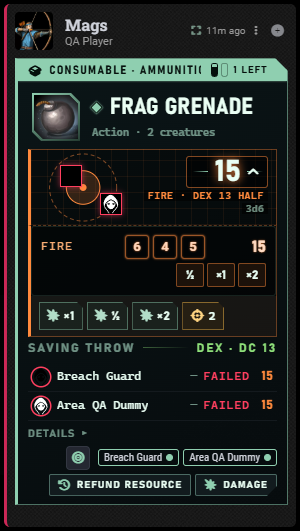
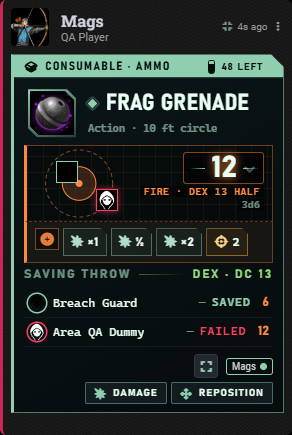
Consumable cards: ammo counts, unclipped foot buttons, Reposition for areas
- A big stack shows one vial and the count instead of a vial per dose;
  Ammunition reads Ammo on the bar, which ellipsizes instead of cutting.
- The button row in a consumable card's foot no longer inherits the
  action strip's corner clip, so the last button keeps its corner.
- Any card whose use puts down an area gets Reposition: D&D5e's placement
  runs again and moves the region that use put down (keeping its
  behaviours and links), or places a new one when it is gone. Players
  move GM-placed regions through the GM.

diff --git a/scripts/hardwipe-area-reposition.js b/scripts/hardwipe-area-reposition.js
@@ -1,0 +1,148 @@
+import { MODULE_ID, escapeHTML } from "./hardwipe-state.js";
+
+/**
+ * Reposition: a card whose activity puts down an area gets a button to place it again. D&D5e's own placement runs
+ * (the same preview, rotation and snapping). The new shapes then move the region this use already put down, so its
+ * behaviours, its concentration link and Ready Set Midi's record of it stay. When that region is gone (removed, or
+ * never placed), the placement creates a new one, and the card remembers it for the next move.
+ */
+const FLAG = "areas";
+let socket = null;
+
+export function registerAreaReposition() {
+  registerSocket();
+  Hooks.once("socketlib.ready", registerSocket);
+}
+
+function registerSocket() {
+  if (socket || !globalThis.socketlib) return;
+  socket = socketlib.registerModule(MODULE_ID);
+  socket?.register("areaReposition", function (messageId, regionUuid, move) { return gmMove(messageId, regionUuid, move, this?.socketdata?.userId); });
+  socket?.register("areaRemember", function (messageId, uuids) { return gmRemember(messageId, uuids, this?.socketdata?.userId); });
+}
+
+/** The regions this card's use put down that are still on a scene. */
+export function cardRegions(message) {
+  const midi = message.flags?.["midi-qol"] ?? {};
+  const uuids = [...(Array.isArray(midi.templateUuids) ? midi.templateUuids : []), midi.templateUuid, ...(message.flags?.[MODULE_ID]?.[FLAG] ?? [])];
+  return [...new Set(uuids.filter(uuid => typeof uuid === "string" && uuid))]
+    .map(uuid => fromUuidSync(uuid)).filter(region => region?.documentName === "Region");
+}
+
+/** Who may move the area: the card's author, the actor's owners and the GM, with leave to draw regions. */
+function canReposition(message, activity) {
+  if (!activity?.target?.template?.type || !game.canvas?.scene) return false;
+  if (!game.user.isGM && !game.user.can("REGION_CREATE")) return false;
+  return userMay(message, game.user);
+}
+
+/**
+ * The button for the card's action strip, or null when the card puts down no area or the viewer may not move it.
+ * @param {ChatMessage} message
+ * @param {Activity} activity
+ * @returns {HTMLButtonElement|null}
+ */
+export function repositionButton(message, activity) {
+  if (!canReposition(message, activity)) return null;
+  const placed = cardRegions(message).length > 0;
+  const label = game.i18n.localize(`HARDWIPE.Area.${placed ? "Reposition" : "Place"}`);
+  const button = document.createElement("button");
+  button.type = "button";
+  button.className = "hardwipe-program-action hardwipe-area-move";
+  button.dataset.tooltip = game.i18n.localize(`HARDWIPE.Area.${placed ? "RepositionHint" : "PlaceHint"}`);
+  button.innerHTML = `<i class="fa-solid ${placed ? "fa-up-down-left-right" : "fa-bullseye"}" inert></i><span class="hardwipe-program-action-label">${escapeHTML(label)}</span>`;
+  button.addEventListener("click", event => {
+    event.preventDefault();
+    event.stopPropagation();
+    button.disabled = true;
+    reposition(message).catch(error => {
+      console.error("Hardwipe | Reposition", error);
+      ui.notifications.error(game.i18n.localize("HARDWIPE.Area.Failed"));
+    }).finally(() => { button.disabled = false; });
+  });
+  return button;
+}
+
+/** The activity as it was used: an upcast card places the area of the level it was cast at. */
+function usedActivity(message) {
+  const activity = message.getAssociatedActivity?.();
+  const scaling = message.system?.scaling ?? 0;
+  if (!activity || !scaling) return activity;
+  const item = activity.item.clone({ "flags.dnd5e.scaling": scaling }, { keepId: true });
+  return item.system.activities.get(activity.id) ?? activity;
+}
+
+/**
+ * Run D&D5e's placement for the card's activity. With a region to move, the placed shapes are taken and nothing is
+ * created; otherwise the placement creates its region as usual.
+ * @returns {Promise<{ data: object[]|null, created: RegionDocument[] }>}
+ */
+async function place(activity, capture) {
+  let data = null;
+  const hook = Hooks.on("dnd5e.createMeasuredTemplate", (used, regionData) => {
+    if (!capture || used?.uuid !== activity.uuid) return;
+    data = regionData;
+    return false;
+  });
+  let created = [];
+  try {
+    created = (await dnd5e.canvas.TemplatePlacement.fromActivity(activity)) ?? [];
+  } finally {
+    Hooks.off("dnd5e.createMeasuredTemplate", hook);
+  }
+  return { data, created };
+}
+
+/** Place the card's area again: move the region it put down, or create one when there is none. */
+export async function reposition(message) {
+  const activity = usedActivity(message);
+  if (!activity?.target?.template?.type) return;
+  const region = cardRegions(message).find(entry => entry.parent?.id === canvas.scene?.id) ?? null;
+  const { data, created } = await place(activity, !!region);
+  if (region) {
+    // Cancelled placement: the area stays where it was.
+    if (!data?.length) return;
+    const move = { shapes: data.flatMap(entry => entry.shapes ?? []), attachment: data[0].attachment ?? { token: null } };
+    if (region.canUserModify(game.user, "update")) await moveRegion(region, move);
+    else await socket?.executeAsGM("areaReposition", message.id, region.uuid, move);
+    return;
+  }
+  if (!created.length) return;
+  const uuids = created.map(entry => entry.uuid);
+  if (message.canUserModify(game.user, "update")) await remember(message, uuids);
+  else await socket?.executeAsGM("areaRemember", message.id, uuids);
+}
+
+function remember(message, uuids) {
+  return message.setFlag(MODULE_ID, FLAG, [...new Set([...(message.flags?.[MODULE_ID]?.[FLAG] ?? []), ...uuids])]);
+}
+
+/** Whether a user may move this card's area: its author, or an owner of the actor that used it. */
+function userMay(message, user) {
+  return !!user && (user.isGM || message.author?.id === user.id || !!message.getAssociatedActivity?.()?.actor?.testUserPermission(user, "OWNER"));
+}
+
+function moveRegion(region, { shapes, attachment }) {
+  return region.update({ shapes, attachment: { token: attachment?.token ?? null } });
+}
+
+/** GM side: move a region the requesting user may not edit, when it belongs to a card that user may reposition. */
+async function gmMove(messageId, regionUuid, move, userId) {
+  const message = game.messages.get(messageId);
+  if (!message || !userMay(message, game.users.get(userId))) return false;
+  const region = cardRegions(message).find(entry => entry.uuid === regionUuid);
+  if (!region || !Array.isArray(move?.shapes) || !move.shapes.length) return false;
+  await moveRegion(region, move);
+  return true;
+}
+
+/** GM side: note the regions a user just placed for a card they may not edit, when they are that card's areas. */
+async function gmRemember(messageId, uuids, userId) {
+  const message = game.messages.get(messageId);
+  const activity = message?.getAssociatedActivity?.();
+  if (!message || !activity || !userMay(message, game.users.get(userId)) || !Array.isArray(uuids)) return false;
+  const regions = uuids.map(uuid => fromUuidSync(uuid)).filter(region => region?.documentName === "Region" && region.flags?.dnd5e?.activity === activity.uuid);
+  if (!regions.length) return false;
+  await remember(message, regions.map(region => region.uuid));
+  return true;
+}

diff --git a/scripts/hardwipe-attack-cards.js b/scripts/hardwipe-attack-cards.js
@@ -1,3 +1,4 @@
+import { repositionButton } from "./hardwipe-area-reposition.js";
 import { MODULE_ID, StrikesManager, escapeHTML } from "./hardwipe-state.js";
 import { isAssembling } from "./hardwipe-assembly.js";
 
@@ -882,7 +883,7 @@ export function readableLabel(label, heal) {
 }
 
 /** Build the strip from the native card's buttons; `skip(action)` leaves a button behind. */
-export function actionStrip(content, accent, skip = () => false) {
+export function actionStrip(content, accent, skip = () => false, { message = null, activity = null } = {}) {
   const strip = document.createElement("div");
   strip.className = `hardwipe-gear-actions ${accent}`;
   const picker = content.querySelector(".chat-card recorded-targets");
@@ -892,8 +893,10 @@ export function actionStrip(content, accent, skip = () => false) {
   }
   const row = document.createElement("div");
   row.className = "hardwipe-gear-buttons";
+  // An area gets Hardwipe's Place / Reposition in place of D&D5e's Place Template, which only ever adds another region.
+  const area = message ? repositionButton(message, activity) : null;
   for (const button of content.querySelectorAll(".chat-card .card-buttons button[data-action], .chat-card section.icon-row button[data-action]")) {
-    if (skip(button.dataset.action)) continue;
+    if (skip(button.dataset.action) || (area && button.dataset.action === "placeTemplate")) continue;
     const raw = button.getAttribute("aria-label") || (button.dataset.tooltip ? game.i18n.localize(button.dataset.tooltip) : button.textContent.trim());
     const heal = /heal/i.test(button.dataset.action) || /heal/i.test(raw);
     const label = readableLabel(raw, heal);
@@ -902,6 +905,7 @@ export function actionStrip(content, accent, skip = () => false) {
     if (label && !button.querySelector(".hardwipe-program-action-label")) button.insertAdjacentHTML("beforeend", `<span class="hardwipe-program-action-label">${escapeHTML(label)}</span>`);
     row.append(button);
   }
+  if (area) row.append(area);
   if (row.childElementCount) strip.append(row);
   return strip;
 }

diff --git a/scripts/hardwipe-item-cards.js b/scripts/hardwipe-item-cards.js
@@ -40,7 +40,7 @@ export function renderGearCard(message, element) {
   panel.className = `hardwipe-gear ${feature ? "is-feature" : "is-item"}`;
   panel.innerHTML = `
     <div class="hardwipe-gear-bar">
-      <span class="hardwipe-gear-tag"><i class="fas ${feature ? "fa-bolt" : "fa-box-open"}" inert></i>${escapeHTML(tagLabel(item, feature))}</span>
+      <span class="hardwipe-gear-tag" data-tooltip="${escapeHTML(tagLabel(item, feature))}"><i class="fas ${feature ? "fa-bolt" : "fa-box-open"}" inert></i><span>${escapeHTML(tagLabel(item, feature))}</span></span>
       ${side ? `<span class="hardwipe-gear-side">${escapeHTML(side)}</span>` : ""}
     </div>
     <div class="hardwipe-gear-body">
@@ -64,7 +64,7 @@ export function renderGearCard(message, element) {
   if (!slot.childElementCount) slot.remove();
 
   // The action strip under the rolls. A save button gives way to the save block when the card knows who must save.
-  const actions = actionStrip(content, feature ? "is-feature" : "is-item", action => action === "rollAttack" || (!!saves && action === "rollSave"));
+  const actions = actionStrip(content, feature ? "is-feature" : "is-item", action => action === "rollAttack" || (!!saves && action === "rollSave"), { message, activity });
   content.prepend(panel);
   element.classList.add("hardwipe-gear-ready");
   bindBrief(message, element, item);
@@ -124,7 +124,8 @@ function sameCheckSpeaker(left, right) {
 /** "Consumable · Potion · Rare", or "Feature · Class Feature". */
 function tagLabel(item, feature) {
   const typeLabel = game.i18n.localize(CONFIG.Item.typeLabels?.[item.type] ?? item.type);
-  const subtype = item.system?.type?.label ?? "";
+  // Ammunition is a long word on a short bar.
+  const subtype = item.system?.type?.value === "ammo" ? game.i18n.localize("HARDWIPE.Gear.Ammo") : item.system?.type?.label ?? "";
   const rarity = item.system?.rarity;
   // Common is the default rarity: left out of the bar.
   const rarityLabel = rarity && rarity !== "common" ? game.i18n.localize(CONFIG.DND5E.itemRarity?.[rarity] ?? rarity) : "";

diff --git a/styles/consumables.css b/styles/consumables.css
@@ -15,7 +15,8 @@
 .hardwipe-cons-vials { display: inline-flex; align-items: center; gap: 3px; }
 .hardwipe-cons-vials > i { width: 7px; height: 14px; border: 1px solid currentColor; border-radius: 2px 2px 3px 3px; background: linear-gradient(to top, currentColor 72%, transparent 72%); }
 .hardwipe-cons-vials > i.is-spent { background: none; opacity: 0.35; }
-.hardwipe-cons-vials > em { margin-left: 3px; font: 700 10px var(--hw-font-disp); font-style: normal; letter-spacing: 0.08em; }
+.hardwipe-cons-vials > em { margin-left: 3px; font: 700 10px var(--hw-font-disp); font-style: normal; letter-spacing: 0.08em; white-space: nowrap; }
+.hardwipe-cons-vials.is-stack > em { font-variant-numeric: tabular-nums; }
 .hardwipe-cons-line { display: block; color: var(--hw-dim); font: 600 10.5px var(--hw-font-mono); text-transform: none; }
 
 .hardwipe-cons-scope {
@@ -85,7 +86,7 @@ button.hardwipe-cons-btn:disabled { opacity: 0.45; cursor: default; }
 button.hardwipe-cons-details { width: auto; height: auto; margin: 0; padding: 0; color: var(--hw-dim); background: none; border: 0; font: 600 10.5px var(--hw-font-disp); letter-spacing: 0.1em; text-transform: uppercase; cursor: pointer; }
 button.hardwipe-cons-details::after { content: " ▸"; }
 button.hardwipe-cons-details[aria-expanded="true"]::after { content: " ▾"; }
-.hardwipe-cons-foot .hardwipe-gear-actions { display: flex; flex-wrap: wrap; align-items: center; justify-content: flex-end; gap: 4px; margin: 0; padding: 0; background: none; border: 0; }
+.hardwipe-cons-foot .hardwipe-gear-actions { display: flex; flex-wrap: wrap; align-items: center; justify-content: flex-end; gap: 4px; margin: 0; padding: 0; background: none; border: 0; clip-path: none; }
 .hardwipe-cons-foot .hardwipe-gear-buttons { display: flex; flex-wrap: wrap; gap: 4px; margin: 0; }
 .hardwipe-cons-foot button.hardwipe-program-action { width: auto; height: 22px; min-height: 0; margin: 0; padding: 0 8px; font-size: 10px; letter-spacing: 0.1em; }
 .hardwipe-cons-out { margin-left: 4px; }

diff --git a/scripts/hardwipe-consumable-cards.js b/scripts/hardwipe-consumable-cards.js
@@ -32,6 +32,12 @@ export function consumableKind({ type, damageParts = 0, effects = 0 }) {
 /** Where up to six target pins sit around the blast's centre (x, y in px within the scope). */
 const PIN_SPOTS = [[40, 26], [80, 54], [28, 58], [86, 22], [58, 64], [16, 32]];
 
+/** A vial per dose while they fit (and one for the dose just used); a big stack shows one vial and the number. Pure. */
+export const VIAL_LIMIT = 3;
+export function vialCount(left) {
+  return left <= VIAL_LIMIT ? left + 1 : 1;
+}
+
 /** The vials: the doses left in the stack, and the one just used. */
 function vialsHTML(item, t) {
   const uses = item.system?.uses;
@@ -39,9 +45,10 @@ function vialsHTML(item, t) {
   const max = Number(uses?.max) || 0;
   // A stack of single-use items counts items; a multi-charge item counts the charges left in the whole stack.
   const left = max > 1 ? Math.max(0, (quantity - 1) * max + (Number(uses.value) || 0)) : quantity;
-  const shown = Math.min(6, left + 1);
+  const shown = vialCount(left);
   const vials = Array.from({ length: shown }, (_, i) => `<i class="${i < left ? "" : "is-spent"}"></i>`).join("");
-  return `<span class="hardwipe-cons-vials" data-tooltip="${escapeHTML(t("Left", { n: left }))}">${vials}<em>${escapeHTML(t("Left", { n: left }))}</em></span>`;
+  const text = t("Left", { n: left.toLocaleString(game.i18n.lang) });
+  return `<span class="hardwipe-cons-vials${shown < left ? " is-stack" : ""}" data-tooltip="${escapeHTML(text)}">${vials}<em>${escapeHTML(text)}</em></span>`;
 }
 
 /** A feature's uses: pips for what's left, and the recovery period. */

diff --git a/scripts/hardwipe-tool-cards.js b/scripts/hardwipe-tool-cards.js
@@ -162,7 +162,11 @@ export function renderTool(message, element, panel, item, activity) {
   if (profKey) panel.querySelector(".hardwipe-gear-bar")?.insertAdjacentHTML("beforeend", `<span class="hardwipe-tool-prof">${escapeHTML(t(`Prof.${profKey}`))}</span>`);
   // The bar names the family; the line under the name gives the tool's own D&D5e name.
   const tag = panel.querySelector(".hardwipe-gear-tag");
-  if (tag) tag.innerHTML = `<i class="fas fa-screwdriver-wrench" inert></i>${escapeHTML(game.i18n.localize("TYPES.Item.tool"))} · ${escapeHTML(t(`Family.${family}`))}`;
+  if (tag) {
+    const label = `${game.i18n.localize("TYPES.Item.tool")} · ${t(`Family.${family}`)}`;
+    tag.innerHTML = `<i class="fas fa-screwdriver-wrench" inert></i><span>${escapeHTML(label)}</span>`;
+    tag.dataset.tooltip = label;
+  }
   const toolKey = item.system?.type?.baseItem || item.system?.type?.value || "";
   let kind = "";
   try { kind = toolKey ? dnd5e.documents.Trait.keyLabel(toolKey, { trait: "tool" }) : ""; } catch { kind = ""; }

diff --git a/scripts/hardwipe.js b/scripts/hardwipe.js
@@ -31,6 +31,7 @@ import { registerRequests } from "./hardwipe-requests.js";
 import { registerComms } from "./hardwipe-comms.js";
 import { CrewManager } from "./hardwipe-crew.js";
 import { registerEdgePlays } from "./hardwipe-edge.js";
+import { registerAreaReposition } from "./hardwipe-area-reposition.js";
 
 export const MODULE_ID = "hardwipe-ruleset";
 export const MODULE_TITLE = "Hardwipe Ruleset";
@@ -86,6 +87,7 @@ Hooks.once("init", async () => {
   registerComms();
   CrewManager.register();
   registerEdgePlays();
+  registerAreaReposition();
   // Last: pins each Hardwipe card to the dark theme once every renderer has marked it.
   registerCardTheme();
 

diff --git a/scripts/hardwipe-spell-cards.js b/scripts/hardwipe-spell-cards.js
@@ -56,7 +56,7 @@ export function renderSpellCard(message, element, attack = null) {
   // Output: the saving throws, in the window.
   if (saves) program.querySelector(".hardwipe-program-output").append(saveBlock(message, saves, { variant: "window" }));
   // The spell's own buttons go to the action strip under the roll card.
-  const actions = actionStrip(content, "is-spell", action => FOOTER_SKIP.has(action));
+  const actions = actionStrip(content, "is-spell", action => FOOTER_SKIP.has(action), { message, activity });
   content.prepend(program);
   element.classList.add("hardwipe-program-ready");
 

diff --git a/scripts/hardwipe-implant-cards.js b/scripts/hardwipe-implant-cards.js
@@ -67,7 +67,7 @@ export function renderImplantCard(message, element, attack = null) {
   else panel.querySelector(".hardwipe-implant-saves").remove();
 
   // The item's own buttons (damage, effects, refund, template) go to the action strip under the roll card.
-  const actions = actionStrip(content, "is-implant", action => FOOTER_SKIP.has(action));
+  const actions = actionStrip(content, "is-implant", action => FOOTER_SKIP.has(action), { message, activity });
   content.prepend(panel);
   element.classList.add("hardwipe-implant-ready");
   bindBrief(message, element, item);

diff --git a/styles/hardwipe.css b/styles/hardwipe.css
@@ -2491,6 +2491,7 @@ button.hardwipe-adv-btn:disabled { cursor: default; }
 }
 .hardwipe-gear-tag { flex: 1; display: inline-flex; align-items: center; gap: 6px; min-width: 0; overflow: hidden; white-space: nowrap; }
 .hardwipe-gear-tag > i { flex: none; font-size: 11px; }
+.hardwipe-gear-tag > span { min-width: 0; overflow: hidden; text-overflow: ellipsis; }
 .hardwipe-gear-side { flex: none; font-size: 11px; opacity: 0.82; white-space: nowrap; }
 .hardwipe-gear-body { display: flex; align-items: center; gap: 12px; margin: 12px 14px 0; }
 .hardwipe-gear-icon {

diff --git a/docs/Cards.md b/docs/Cards.md
@@ -110,12 +110,14 @@ Use the item or feature through its native activity. The card exposes uses, roll
 
 ## Consumables
 
-One card per use: the item with the doses left, then a scope drawn by what it did, with the result on it. Where there's a roll, the number **is** the roll: click it for the dice. Targets and what happened to them are written out under the scope. **Details** opens the description; the item's own buttons (Refund, Place template) sit beside it. [Effects on the Turn tab →](Players.md#read-your-turn)
+One card per use: the item with the doses left (a vial each up to three; past that, one vial and the count, so a stack of 200 rounds still fits), then a scope drawn by what it did, with the result on it. Where there's a roll, the number **is** the roll: click it for the dice. Targets and what happened to them are written out under the scope. **Details** opens the description; the item's own buttons (Refund, Damage) sit beside it.
+
+**Reposition** appears on any card whose use puts down an area (grenades, spells, features), for its user and the GM. It runs D&D5e's placement again and moves the region that use put down, keeping its effects and links; if that region is gone, it reads **Place area** and puts down a new one. Escape cancels. A player can move a region the GM placed for them; the GM's client makes the change. [Effects on the Turn tab →](Players.md#read-your-turn)
 
 <table>
   <tr>
     <td valign="top"><a href="media/consumable-heal.png"><img src="media/consumable-heal.png" alt="Stim Injector card: a vitals trace behind 7 hit points, 2d4 + 2, with Heal, Temp HP and the target count" width="250"></a><br><strong>Heal</strong><br>A vitals trace; the healing roll, Heal and Temp HP.</td>
-    <td valign="top"><a href="media/consumable-damage.png"><img src="media/consumable-damage.png" alt="Frag Grenade card: blast radius with two pinned targets, 15 fire with DEX 13 half, the dice drawer open, both targets failed and took 15" width="250"></a><br><strong>Damage and a save</strong><br>The blast with each target pinned (hover for who), the damage roll with its dice open, each target's save and damage.</td>
+    <td valign="top"><a href="media/consumable-damage.png"><img src="media/consumable-damage.png" alt="Frag Grenade card: Consumable · Ammo with 48 left, a blast radius with two pinned targets, 12 fire with DEX 13 half; Breach Guard saved and took 6, Area QA Dummy failed and took 12; Damage and Reposition" width="250"></a><br><strong>Damage and a save</strong><br>The blast with each target pinned (hover for who), the damage roll, each target's save and damage, and Reposition for the area.</td>
     <td valign="top"><a href="media/consumable-buff.png"><img src="media/consumable-buff.png" alt="Reflex Booster card: Overclock for 1 minute on Mags in a cyan ring, AC 13 to 15, Speed 30 to 40 ft, advantage on DEX saves, Remove" width="250"></a><br><strong>Buff</strong><br>A ring as long as the effect lasts; what it grants, before → after.</td>
   </tr>
   <tr>

diff --git a/docs/Walls.md b/docs/Walls.md
@@ -111,7 +111,7 @@ Each exposed five-foot section receives one proposed impact. Overlapping placeme
 
 <img src="media/wall-area-result.webp" alt="Player's chat after approval: Wall hit, the Fireball's sections 1 to 8 at 30 of 40 HP" width="295">
 
-The GM receives one private **Apply damage / Ignore** review for the cast, including all affected sections, under the caster's name. Wall HP, surface marks, and geometry wait for approval. Changing the source area, the damage roll, wall settings, or blockers invalidates the old proposal; for an emanation, so does the caster moving. A pending instantaneous area is retained so the GM can verify it. When Ready Set Midi's **auto-remove instantaneous templates** is on, the area is removed once the GM decides; otherwise remove it by hand as usual. **Undo last wall damage** restores the cast's wall changes together.
+The GM receives one private **Apply damage / Ignore** review for the cast, including all affected sections, under the caster's name. Wall HP, surface marks, and geometry wait for approval. Changing the source area (including **Reposition** on the card), the damage roll, wall settings, or blockers invalidates the old proposal; for an emanation, so does the caster moving. A pending instantaneous area is retained so the GM can verify it. When Ready Set Midi's **auto-remove instantaneous templates** is on, the area is removed once the GM decides; otherwise remove it by hand as usual. **Undo last wall damage** restores the cast's wall changes together.
 
 Use this bundled implementation with standalone Walled Regions and Walled Templates disabled. Existing `walled-regions` item and Region flags remain compatible. The source and bundled licenses are in [vendor/NOTICE.md](../vendor/NOTICE.md).
 
